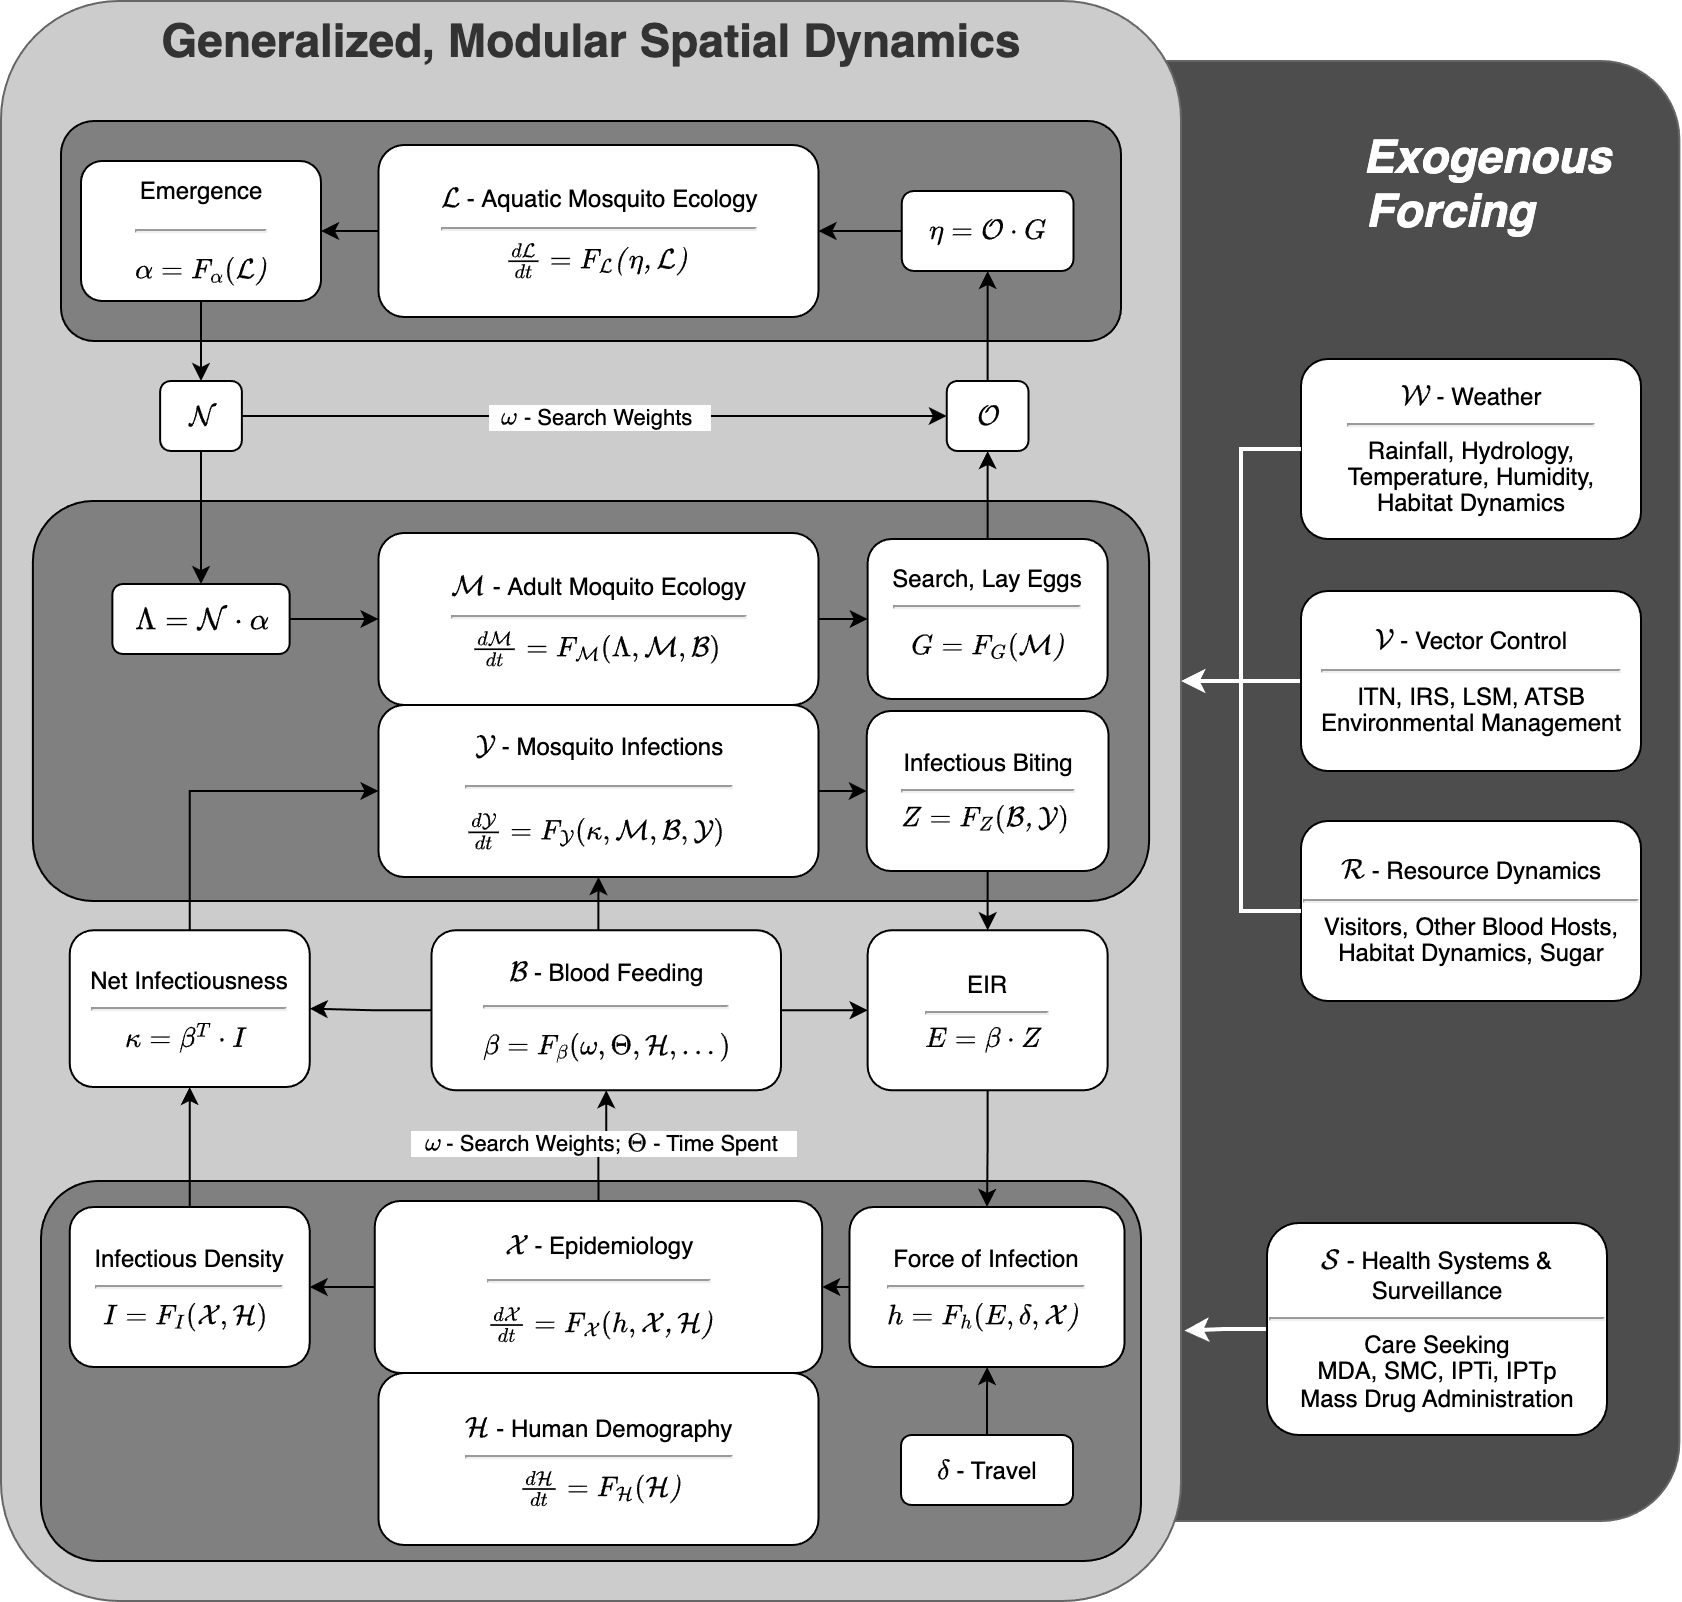
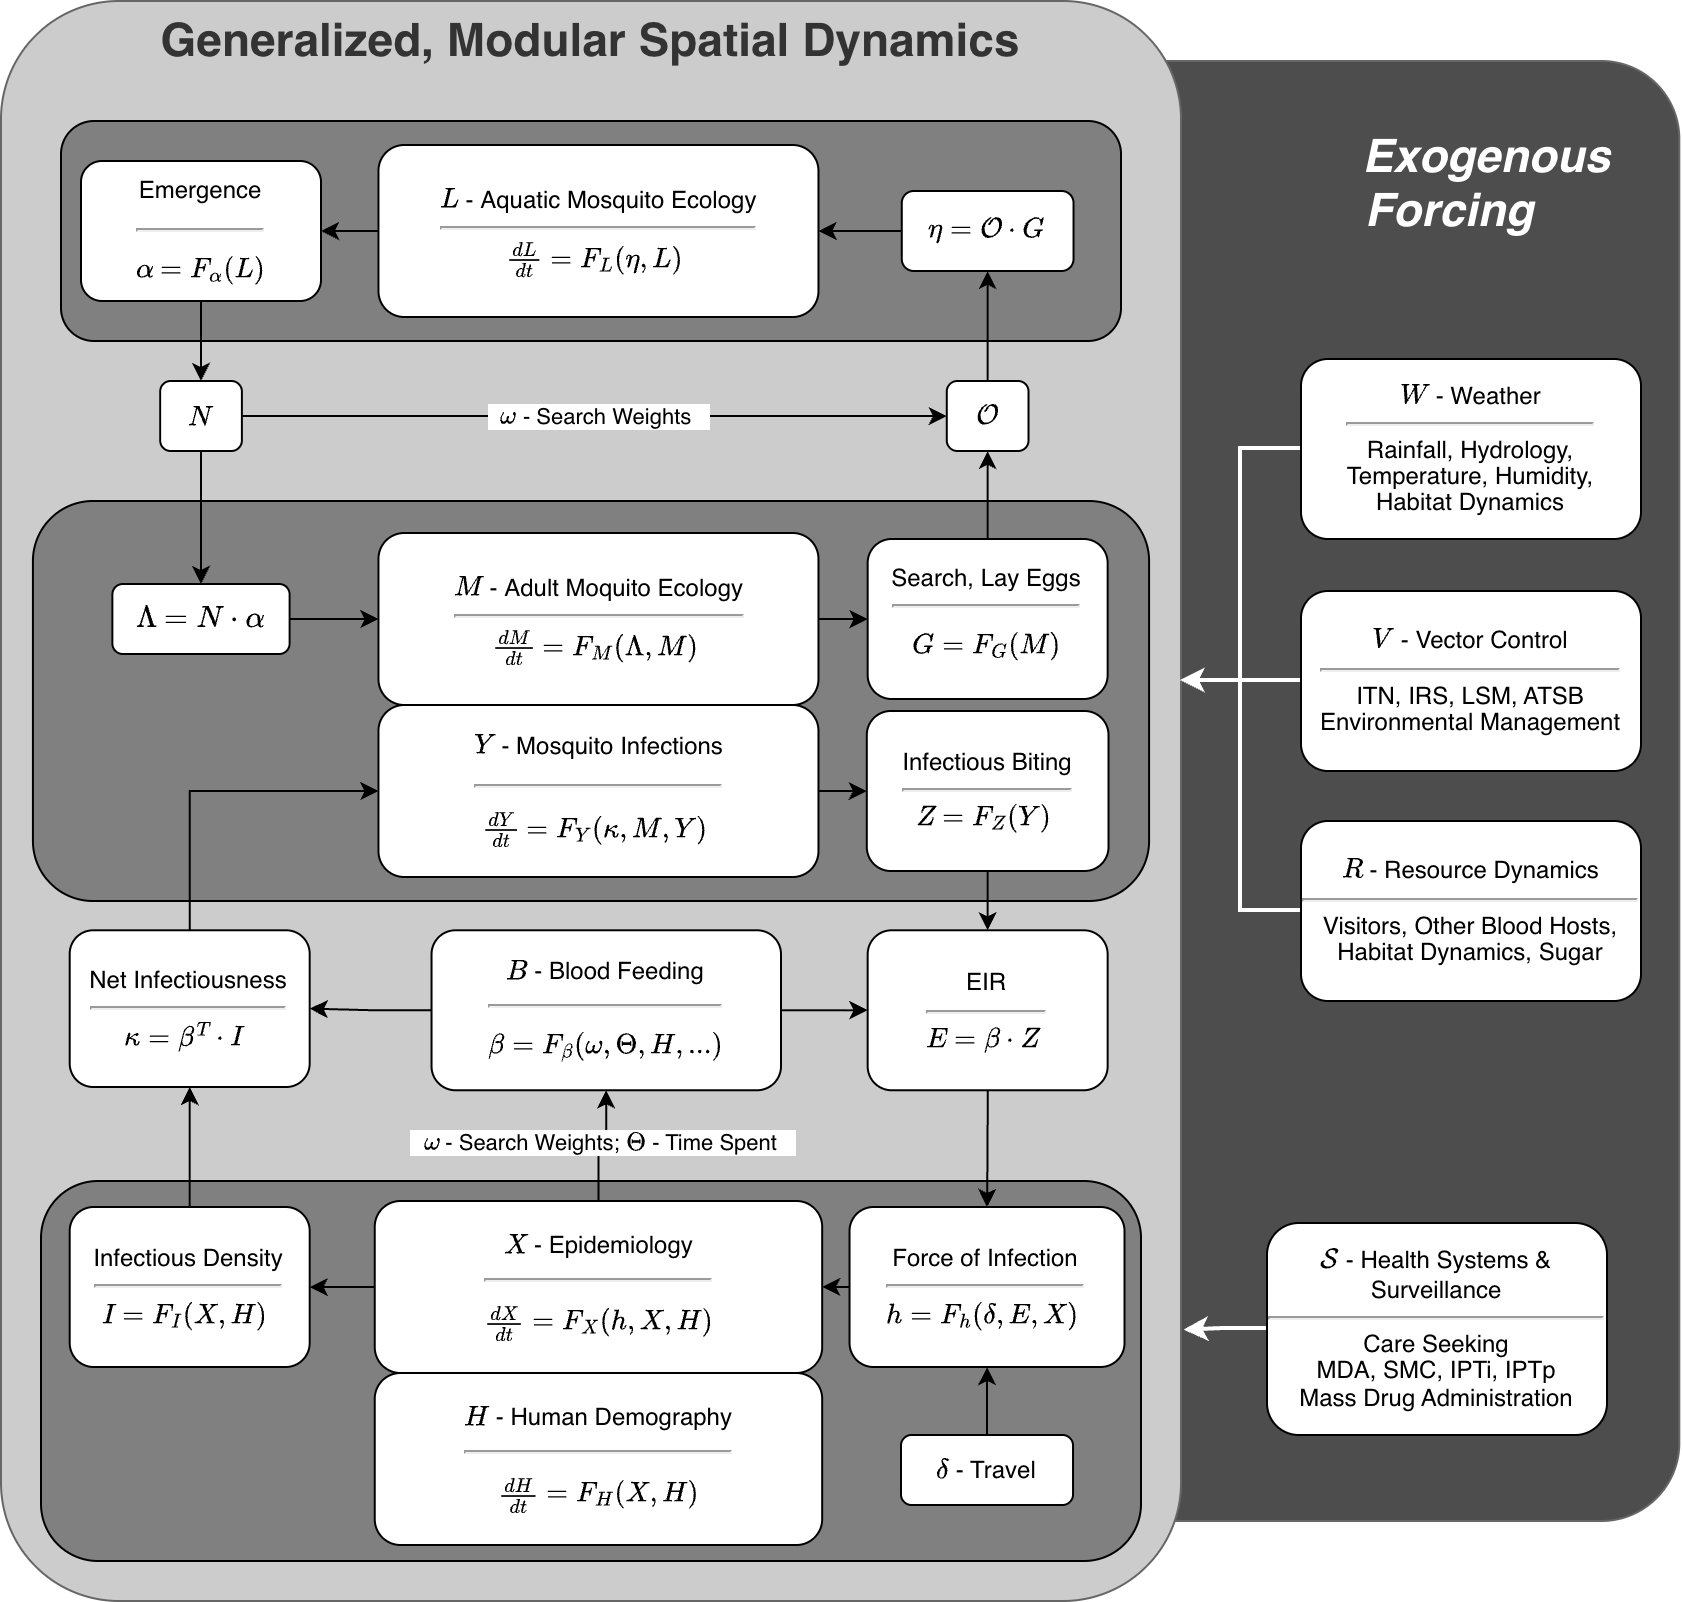
modular forms, xds_info_

diff --git a/docs/LICENSE-text.html b/docs/LICENSE-text.html
@@ -27,6 +27,7 @@
     <li><a class="dropdown-item" href="articles/BasicSetup.html">Basic Setup</a></li>
     <li><a class="dropdown-item" href="articles/Working.html">The xds Model Object</a></li>
     <li><a class="dropdown-item" href="articles/ex_534.html">The 5-3-4 Model</a></li>
+    <li><a class="dropdown-item" href="articles/modular_forms.html">Modular Forms</a></li>
     <li><a class="dropdown-item" href="articles/Delays.html">Delay Equations</a></li>
     <li><a class="dropdown-item" href="articles/Forcing.html">Ports &amp; Junctions</a></li>
     <li><a class="dropdown-item" href="articles/DTS.html">Discrete Time Systems</a></li>

diff --git a/docs/LICENSE.html b/docs/LICENSE.html
@@ -27,6 +27,7 @@
     <li><a class="dropdown-item" href="articles/BasicSetup.html">Basic Setup</a></li>
     <li><a class="dropdown-item" href="articles/Working.html">The xds Model Object</a></li>
     <li><a class="dropdown-item" href="articles/ex_534.html">The 5-3-4 Model</a></li>
+    <li><a class="dropdown-item" href="articles/modular_forms.html">Modular Forms</a></li>
     <li><a class="dropdown-item" href="articles/Delays.html">Delay Equations</a></li>
     <li><a class="dropdown-item" href="articles/Forcing.html">Ports &amp; Junctions</a></li>
     <li><a class="dropdown-item" href="articles/DTS.html">Discrete Time Systems</a></li>

diff --git a/docs/authors.html b/docs/authors.html
@@ -27,6 +27,7 @@
     <li><a class="dropdown-item" href="articles/BasicSetup.html">Basic Setup</a></li>
     <li><a class="dropdown-item" href="articles/Working.html">The xds Model Object</a></li>
     <li><a class="dropdown-item" href="articles/ex_534.html">The 5-3-4 Model</a></li>
+    <li><a class="dropdown-item" href="articles/modular_forms.html">Modular Forms</a></li>
     <li><a class="dropdown-item" href="articles/Delays.html">Delay Equations</a></li>
     <li><a class="dropdown-item" href="articles/Forcing.html">Ports &amp; Junctions</a></li>
     <li><a class="dropdown-item" href="articles/DTS.html">Discrete Time Systems</a></li>
